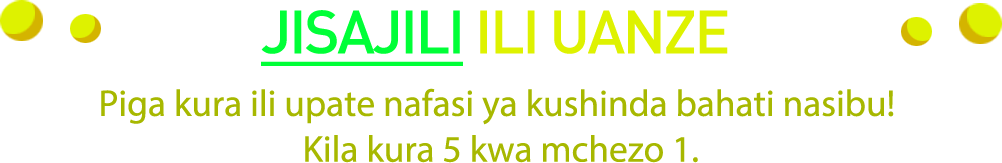
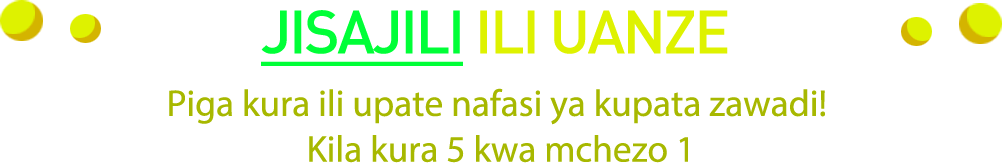
更新文案

Changed region(s): [[0.0928, 0.5521, 0.8972, 0.7669], [0.2784, 0.8282, 0.7116, 1.0]]

diff --git a/fe/src/pages/activity/BSSVote2/App.vue b/fe/src/pages/activity/BSSVote2/App.vue
@@ -1038,7 +1038,7 @@ export default {
             this.voteLeft -= value
             this.getLeftLottery()
             if (this.voteLeft > 0) {
-              this.$refs.toast.show('Upigaji umefanikiwa! Umepata nafasi ya kucheza bahati nasibu.')
+              this.$refs.toast.show('Upigaji umefanikiwa! Umepata nafasi ya kupata zawadi kwa kupitia mchezo wa ukurasa huu.')
             } else {
               this.$refs.confirm.show(
                 'Upigaji umefanikiwa! Shirikisha marafiki kupata kura zaidi.',
@@ -1196,7 +1196,7 @@ export default {
         return
       }
       // 票不够不能抽奖
-      this.$refs.alert.show('Piga kura ili upate nafasi ya kushinda bahati nasibu! Kila kura 5 kwa mchezo 1', () => {}, 'SAWA')
+      this.$refs.alert.show('Piga kura ili upate nafasi ya kupata zawadi! Kila kura 5 kwa mchezo 1', () => {}, 'SAWA')
     },
     // 开始抽奖
     startLottery() {
